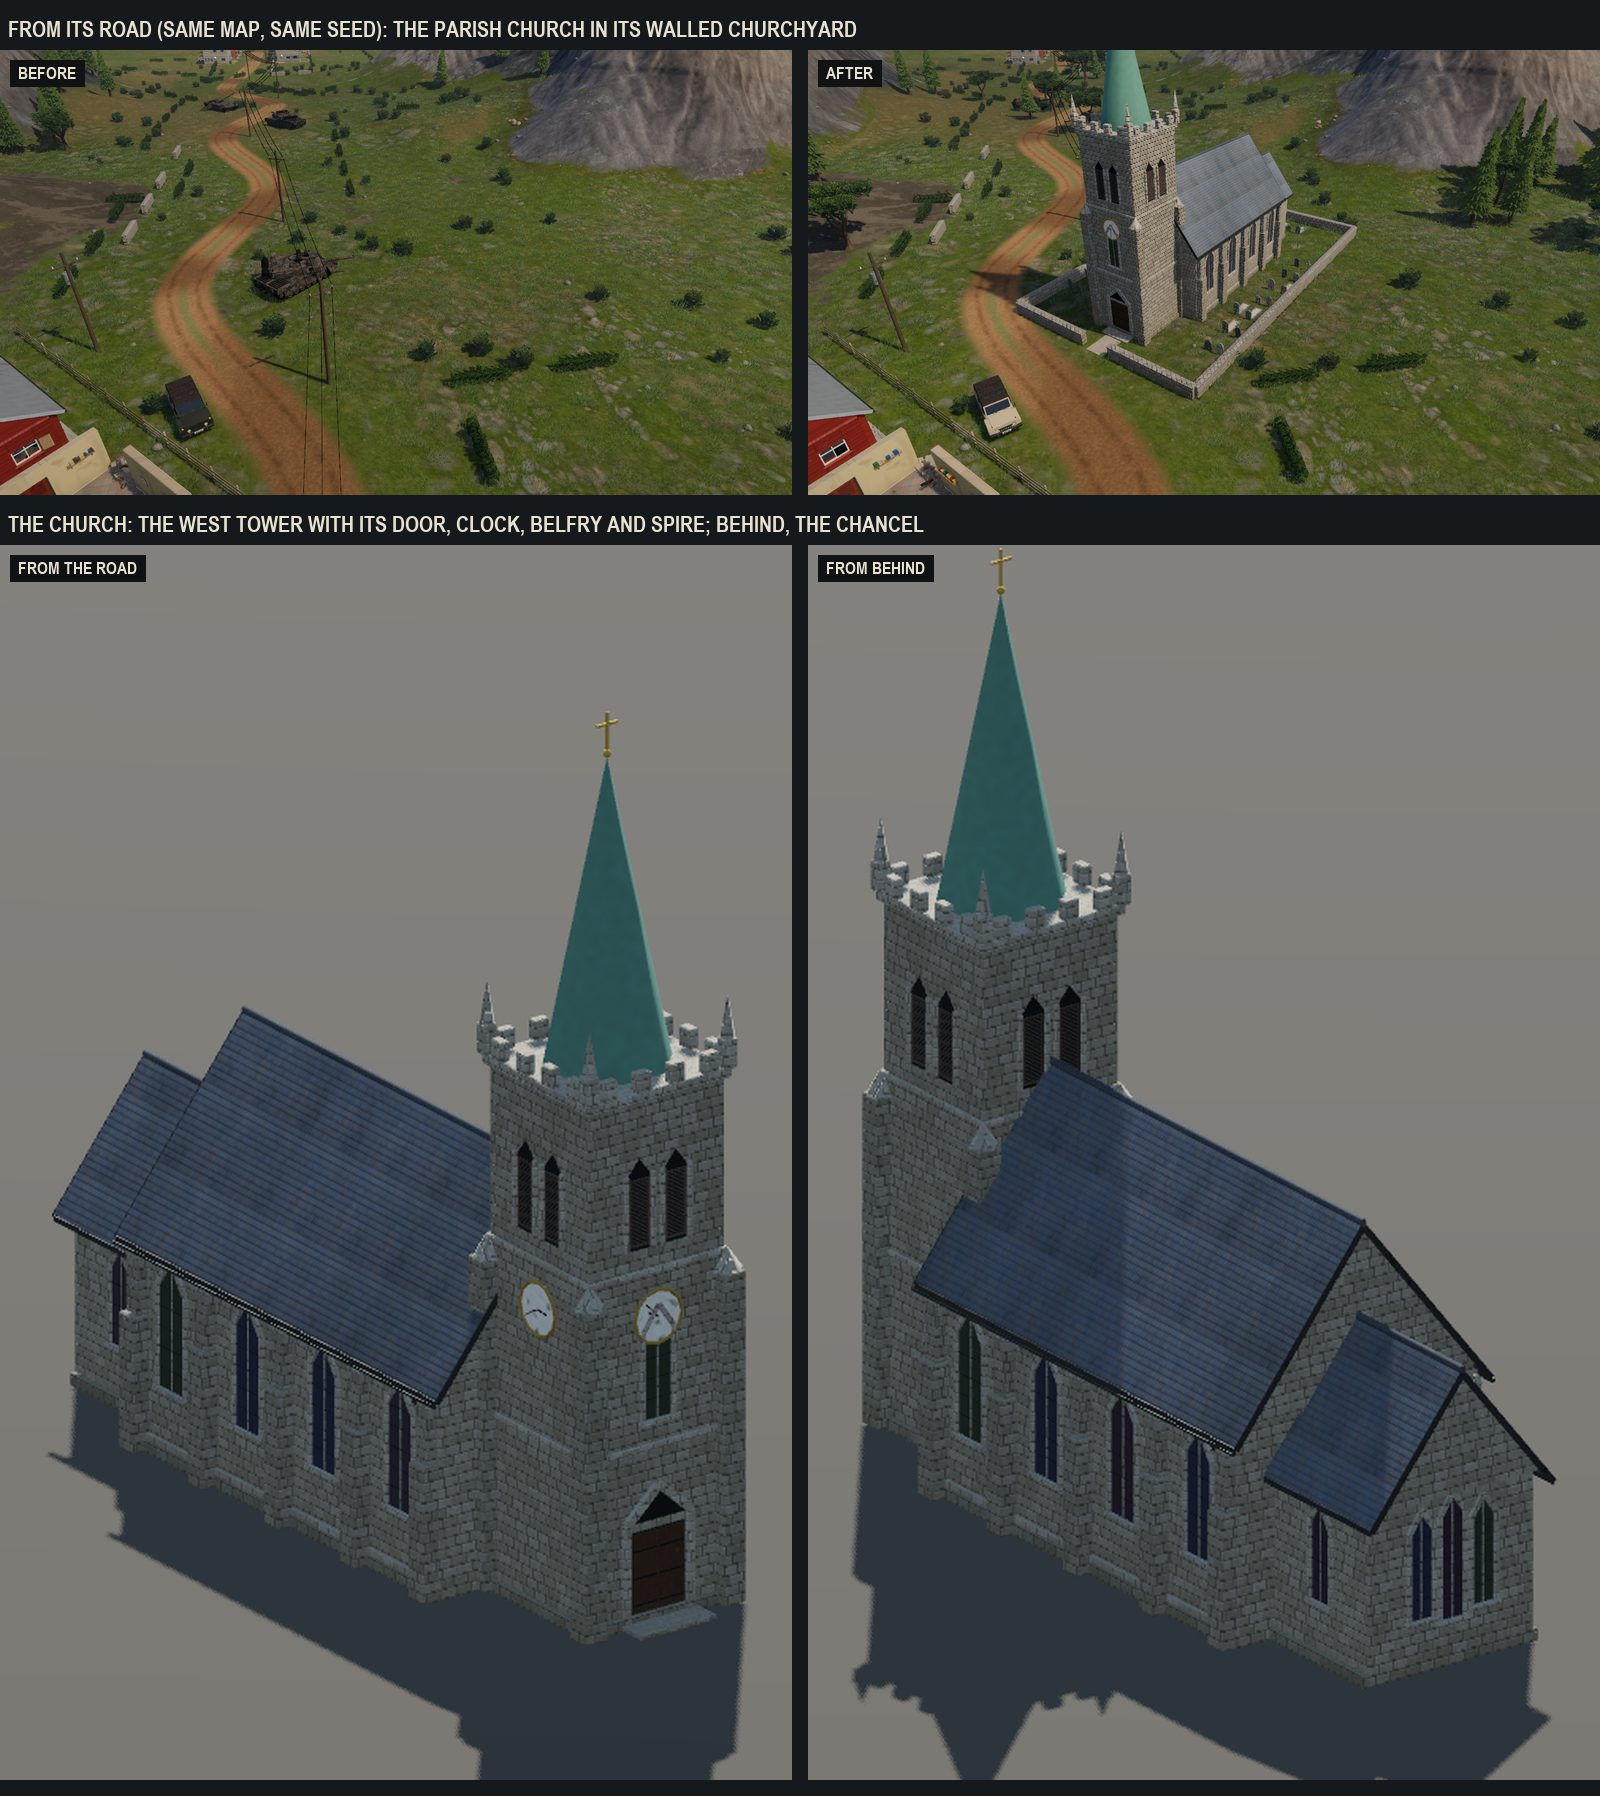
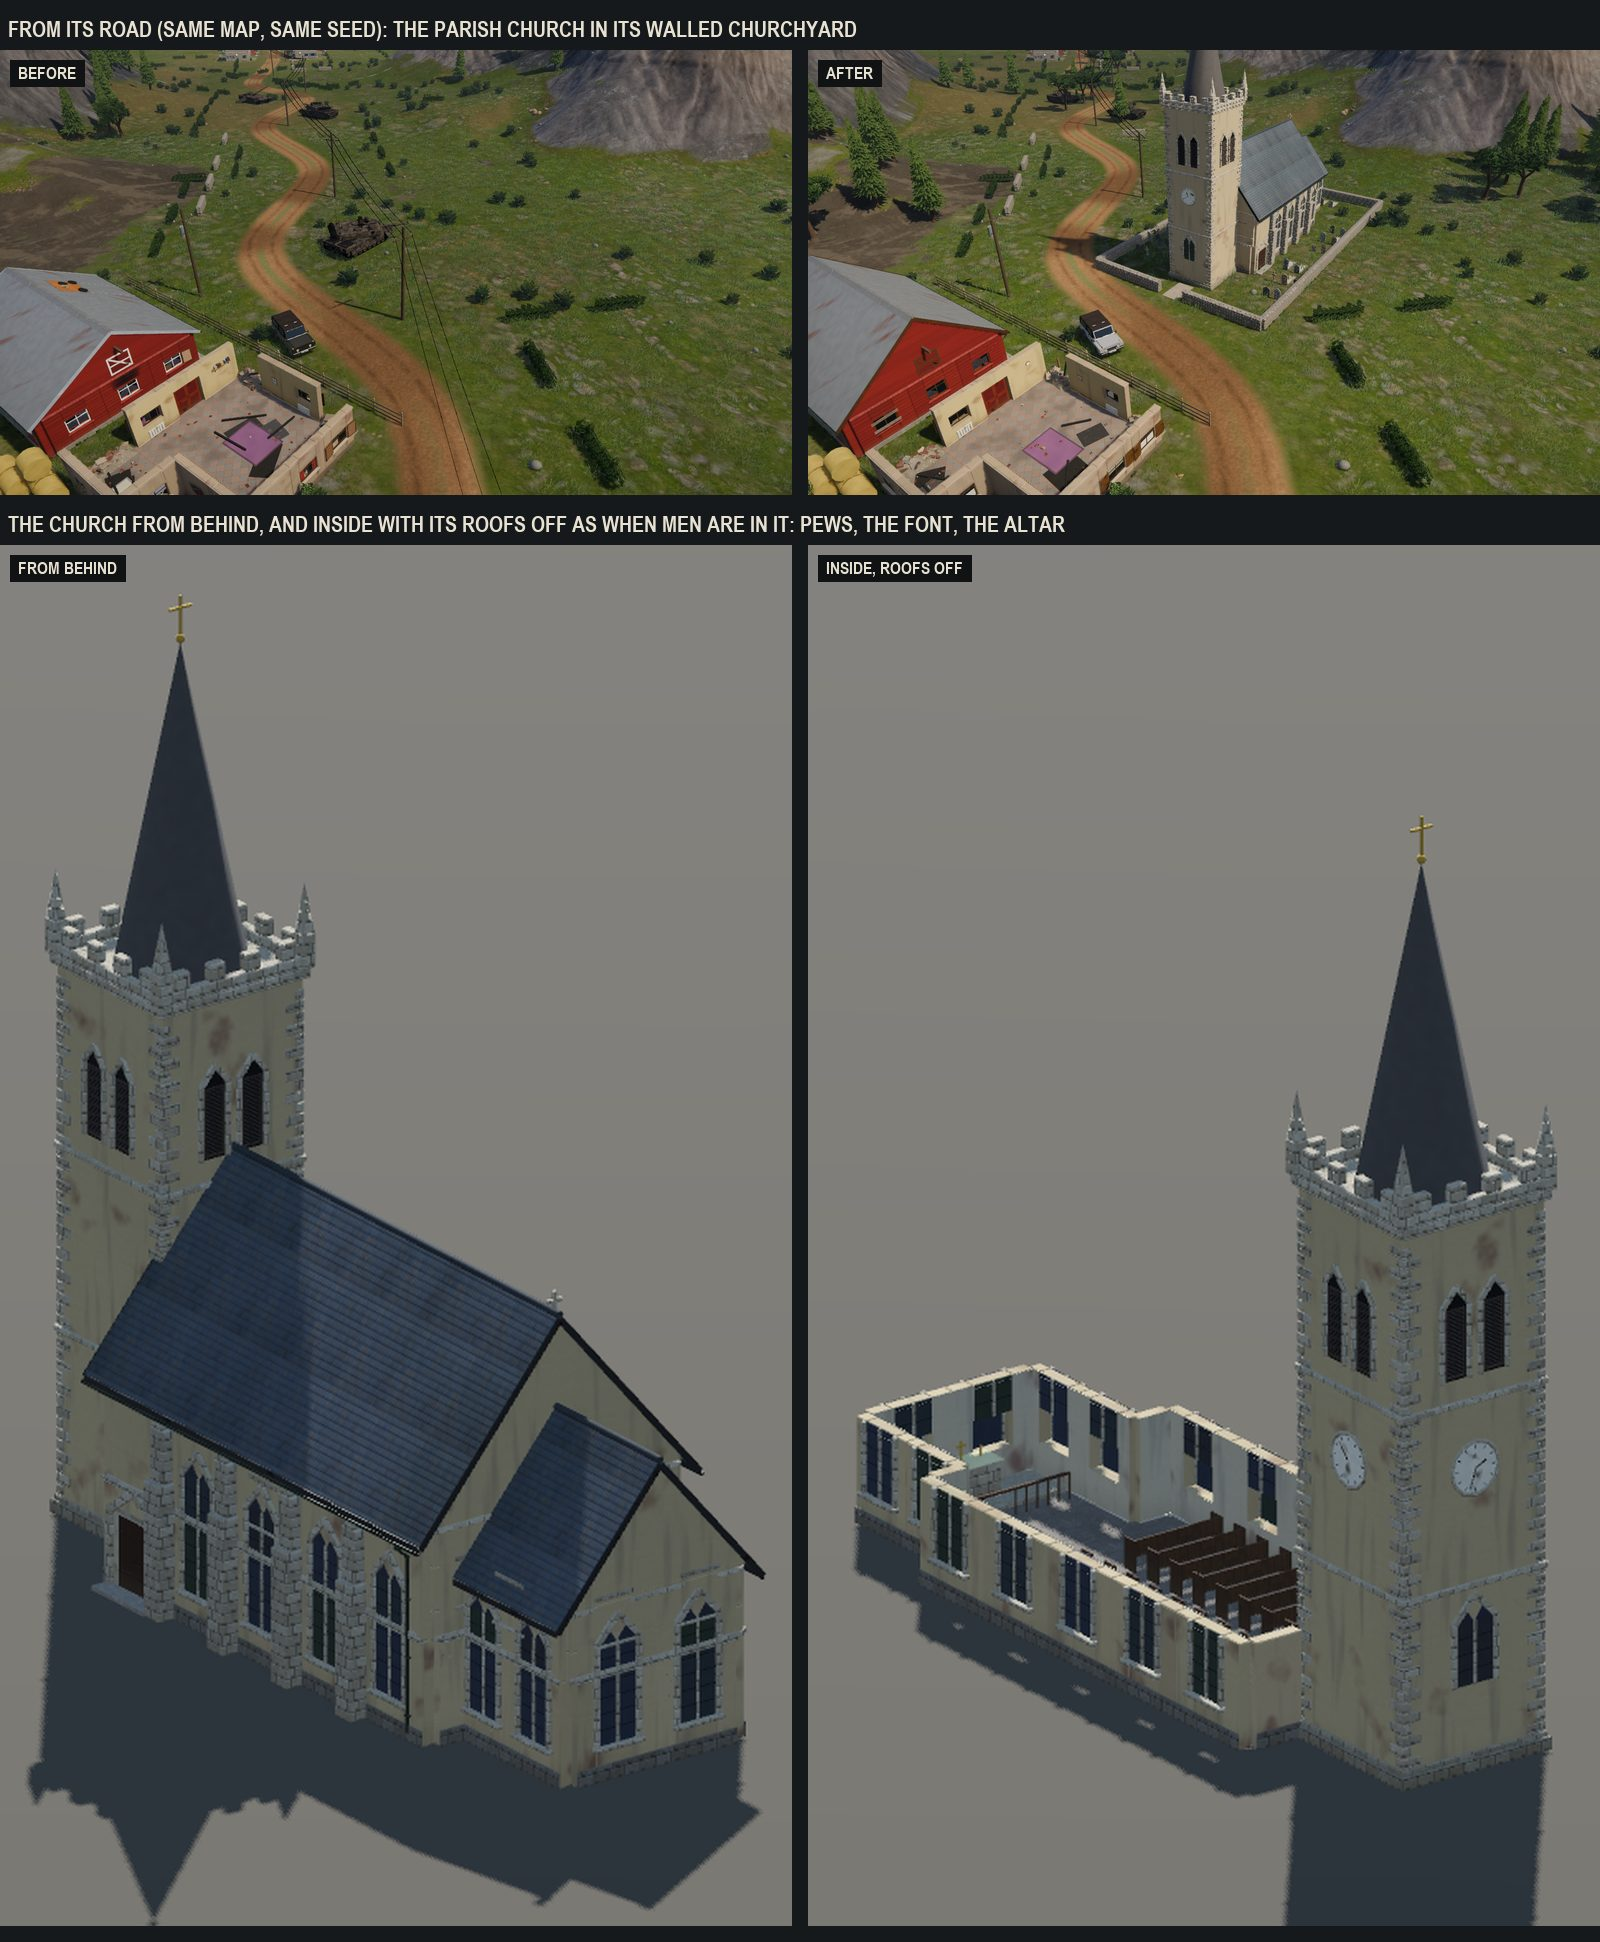
Update the church's docs, changelog and evidence for the enterable church

diff --git a/docs/building-components.md b/docs/building-components.md
@@ -211,16 +211,20 @@ and a blast or a truck knocks them over. Render them with `--building-kinds=hous
 
 ## The parish church
 
-A skirmish town has a parish church (Structure "church", `_church_model`): `TownGen.church` stands it back from
-one of the roads into the town, 7.5 m off it with its tower to the road, where `MapGen._try` finds room, from a
-stream of its own after the town and the farms are laid out (so they stand where they did). It is built in the
-kit: a stone nave of four bays between stepped buttresses, a lancet in each (`_lancet`: leaded glass in muted
-colours, a mullion and saddle bars, a dressed surround, the pointed head), a slate gable roof at 52 degrees; a
-lower chancel with three lancets in its east end; the west tower in three stages between string courses (the
-pointed west door with its step and a window over it, a clock on two faces, the belfry's louvred lancets),
-clasping buttresses, battlements, corner pinnacles and an octagonal copper spire with a cross. Its body is three
-solid parts (tower, nave, chancel): cover against its walls, nobody inside, 12000 hit points, a heap of rubble
-when it falls. Render it with `--building-kinds=church` in the studio stage.
+A skirmish town has a parish church, built as a house is so men can go in (`MapGen._church`): `TownGen.church`
+stands it back from one of the roads into the town with its west tower to the road, first where its whole
+churchyard has room, from a stream of its own after the town and its villages are laid out and before the farms.
+The tower is solid (Structure "church": rendered, stone quoins long and short up its corners, string courses, a
+west lancet, a clock on two faces, louvred belfry lancets, battlements, pinnacles, a matte slate spire with a
+gilded cross). The nave and the chancel are each a floor (variant 3: flagstones, pews either side of the aisle
+and the font in the nave; the altar on its step behind a rail in the chancel), house walls in the "church"
+material (limewashed render over a dressed stone plinth) laid by `Structure.church_walls` (bays with a lancet in
+each, the door in the nave's south side, the nave's ends either side of the tower and of the chancel arch), and a
+roof that draws the walls on up to the eaves by the same plan (`_church_roof`: the rest of each two-light lancet
+and its pointed heads, a string course, stepped buttresses) under a 50 degree slate roof. A window's sill is
+chest high, so men inside fire from it; the roofs lift off when they go in, and a wall knocked down leaves rubble
+as a house's does. Render it with `--building-kinds=church` (and `church_open`, its roofs off) in the studio
+stage.
 
 Round it `TownGen._churchyard` lays out the churchyard from the same stream: a low stone wall all round
 (Structure "low_wall", cover as a garden wall is) with a gap in front for the path up to the west door, rows of

diff --git a/changelog/unreleased/parish-church.md b/changelog/unreleased/parish-church.md
@@ -1,14 +1,14 @@
 +++
 title = "A parish church on the edge of town"
-summary = "Most town maps now have a stone church where a road comes into the town: a nave and chancel under slate roofs, a west tower with a clock and belfry, and a copper spire you can see across the map."
+summary = "Skirmish towns now have a parish church in a walled churchyard where a road comes in: a limewashed nave and chancel men can go into and fight from, and a tower with a clock, belfry and slate spire you can see across the map."
 kind = "new"
 
 [[screenshots]]
 file = "comparison.jpg"
-caption = "The church and its churchyard from the road on the same map before and after, and the church from the road and from behind"
+caption = "The church in its churchyard from the road on the same map before and after; the church from behind, and inside with its roofs off"
 +++
 
-- **The church** stands back from one of the roads into the town, its tower to the road. It has a nave of four bays between stepped buttresses with tall pointed windows, a lower chancel with three lancets in its east end, and a west tower. The tower has a pointed door, a clock on two faces, louvred belfry openings, battlements, pinnacles and an octagonal copper spire with a cross on top.
-- **The churchyard** round it has a low stone wall (cover, like a garden wall) with a gate gap for the path to the door, rows of graves either side and behind, and a dark conifer at each front corner.
-- It's solid stone. Men take cover against its walls, nobody goes in, it blocks sight and movement, and enough fire brings it down to a heap of rubble.
+- **The church** stands back from one of the roads into the town, its tower to the road: a limewashed nave of five bays with tall pointed windows between stone buttresses, a lower chancel, and a solid west tower with stone quoins, a clock on two faces, louvred belfry openings, battlements, pinnacles and a slate spire with a cross.
+- **You can go in**: its south door opens like a house's, the windows are chest high to fire from, and the roofs lift off when your men are inside, over the pews, the font and the altar. Its walls give cover and come down to rubble like a house's.
+- **The churchyard** round it has a low stone wall (cover, like a garden wall) with a gate gap, rows of graves either side and behind, and a dark conifer at each front corner.
 - Missions' towns are unchanged; a skirmish map with no room by its roads has no church.

diff --git a/docs/FEATURES.md b/docs/FEATURES.md
@@ -731,10 +731,10 @@ av.gd`, `hnav.gd`, `terrain.gd`, `squad.gd`)
   cross road either side of town and on the road between each HQ and the town; farmsteads (a farmhouse, most on two floors with a wing, and a barn round a yard, hay bales, a fenced road frontage, an orchard; the barn weatherboarded
   under a corrugated sheet roof with loft doors in its gables, straw on its floor) and
   hedged fields lie along the roads; abandoned cars on the verges, burnt-out armour off the road.
-- A skirmish town has its parish church where a road comes in: a stone nave and chancel under slate roofs and a
-  west tower with a clock, louvred belfry, battlements and a copper spire seen across the map, in a walled
-  churchyard of graves. It's solid: cover
-  against its walls, nobody inside, and enough fire brings it down to rubble.
+- A skirmish town has its parish church where a road comes in, in a walled churchyard of graves: a limewashed
+  nave and chancel with tall pointed windows under slate, and a solid west tower with a clock, louvred belfry,
+  battlements and a slate spire seen across the map. Men go in by its south door, fight from its windows (the
+  roofs lift off for them, over the pews and the altar), and its walls come down to rubble as a house's do.
 - **The town and every village have a name and a supply dump** (crated stores on a pallet, fuel drums and a
   flagpole): the town's on its square where the flagpole stood, a village's on the verge of its main street.
   Nobody holds them at the start. They are the supply worth fighting over: see *Towns* under Base building and
